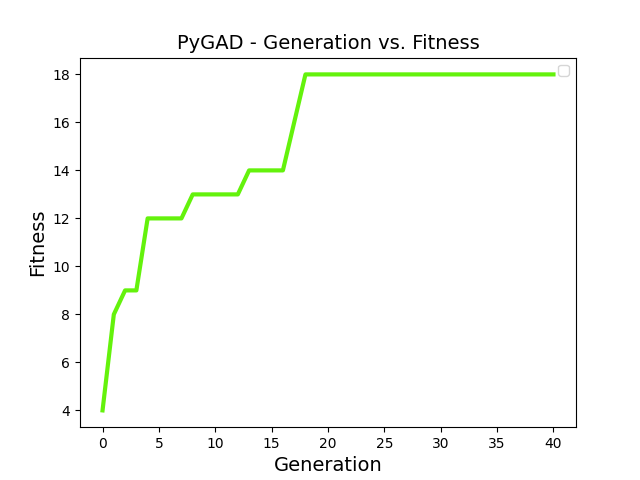
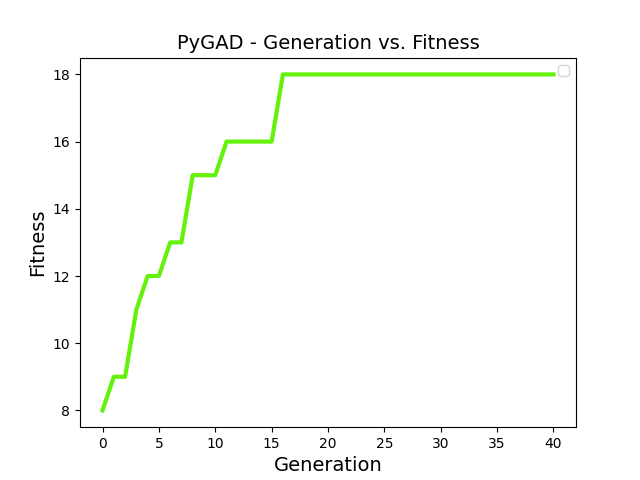
fitness 2

diff --git a/main2.py b/main2.py
@@ -3,7 +3,7 @@ import numpy as np
 plt.style.use("default")
 
 
-def nonogram_ga(nonogram, image_name, printing=True):
+def nonogram_ga2(nonogram, image_name, printing=True):
     gene_space = [0,1]
     
     nonogram_size = len(nonogram[0]) 
@@ -69,8 +69,8 @@ def nonogram_ga(nonogram, image_name, printing=True):
                 fitness += 1
         
         if(seq_id < len(sequence)):
-            # -5 point for each additional block
-            fitness -= np.sum(sequence[seq_id:])*5
+            # -1 point for each additional block
+            fitness -= np.sum(sequence[seq_id:])
         
         return fitness
 

diff --git a/st.py b/st.py
@@ -1,6 +1,6 @@
 import time
 from main import nonogram_ga
-
+from main2 import nonogram_ga2
 # nonograms example
 
 nonogram_1_1 = [
@@ -44,7 +44,7 @@ nonogram_3_1 = [
 ]
 
 start_time1_1= time.time()
-res1_1 = nonogram_ga(nonogram_1_1, "1_1")
+res1_1 = nonogram_ga2(nonogram_1_1, "1_1")
 end_time1_1 = time.time()
 t1_1= end_time1_1- start_time1_1
 

diff --git a/st.md b/st.md
@@ -1,6 +1,6 @@
 5x5
-accuracy: 100.0, 100.0, 75.0; average 91.66666666666667
-time: 2.361963987350464, 1.6275296211242676, 3.4192419052124023; average 2.469578504562378
+accuracy: 100.0, 100.0, 83.33; average 94.44333333333333
+time: 2.2190468311309814, 1.6489691734313965, 3.698810338973999; average 2.522275447845459
 
 10x10
 accuracy: 74.07, 76.6, 85.37; average 78.67999999999999
@@ -9,3 +9,19 @@ time: 31.91212034225464, 212, 37.210180044174194; average 35.19583439826965
 15x15
 accuracy: 55.84
 time: 69.18298935890198
+
+
+dla main2
+
+statistics:
+5x5
+accuracy: 100.0, 100.0, 75.0; average 91.66666666666667
+time: 2.361963987350464, 1.6275296211242676, 3.4192419052124023; average 2.469578504562378
+
+10x10
+accuracy: 70.37, 80.85, 68.29; average 73.17
+time: 28.079724311828613, 212, 25.183879137039185; average 26.558917204538982
+
+15x15
+accuracy: 58.44
+time: 59.61698603630066
